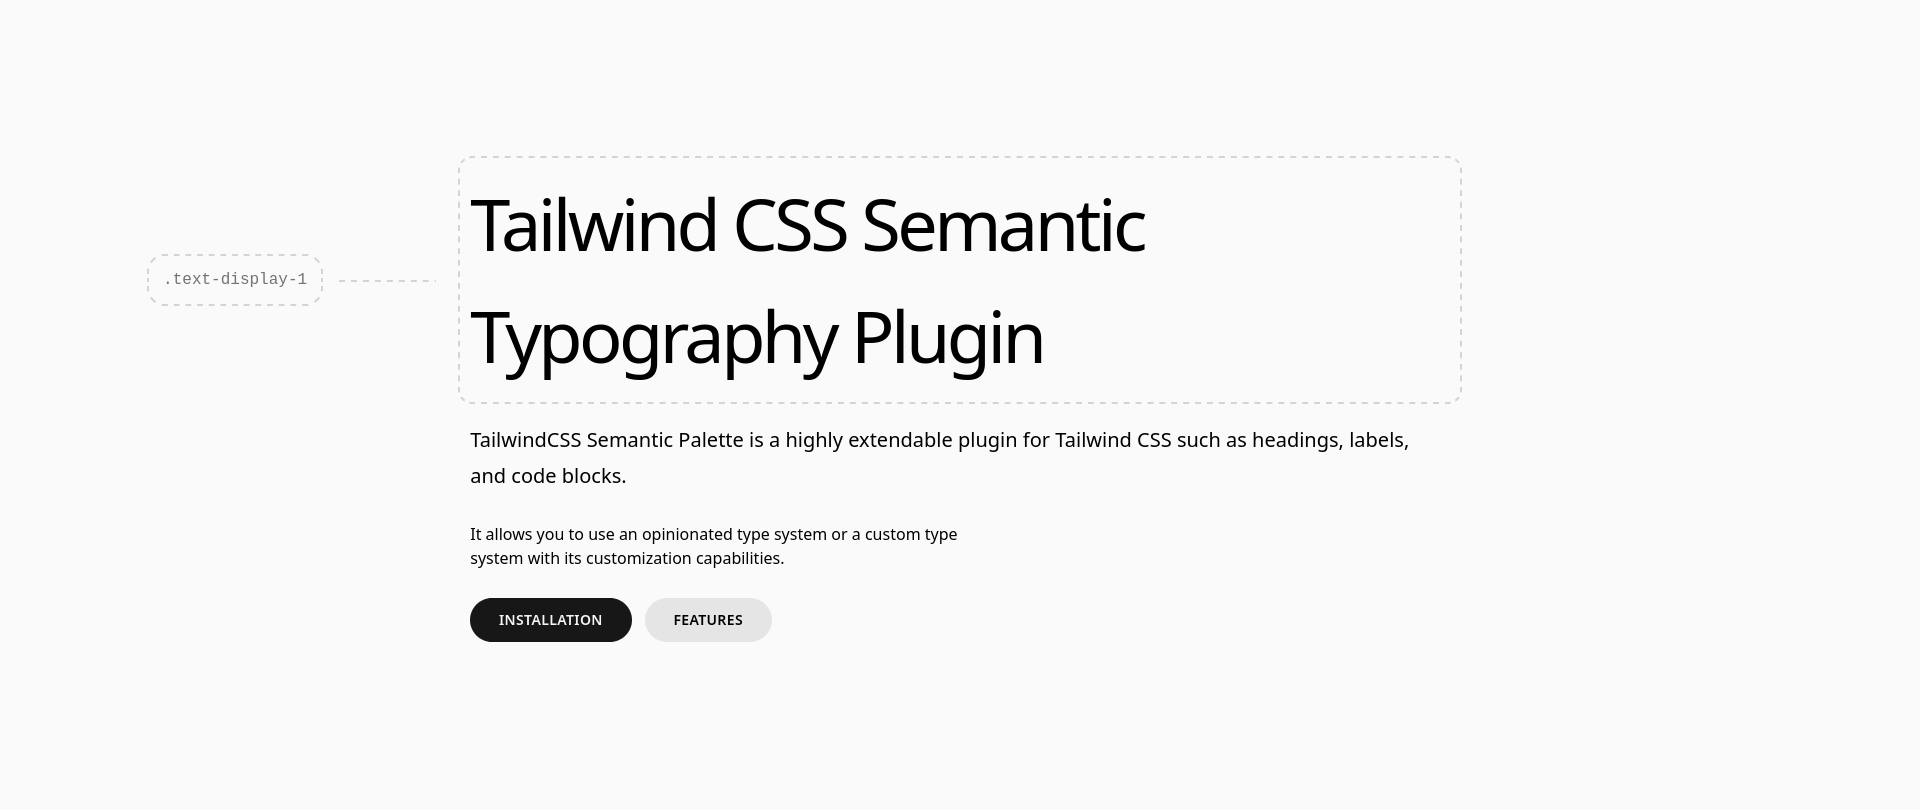
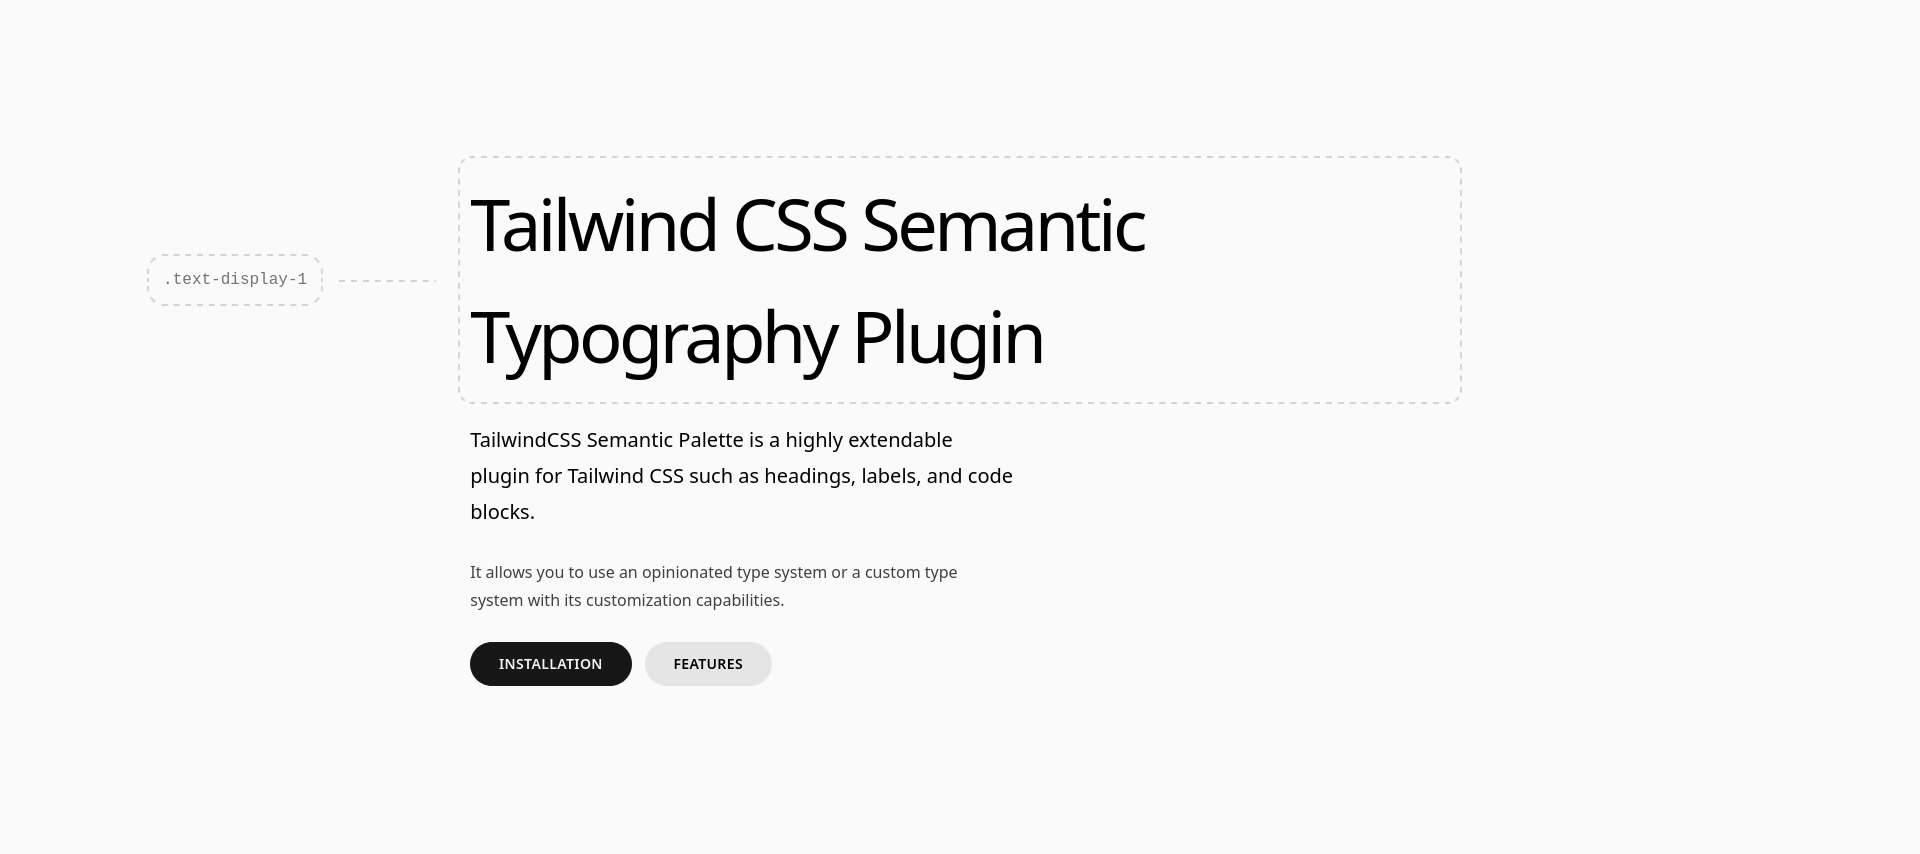
updates documentation of the tailwindcss semantic typography plugin

diff --git a/plugins/tailwindcss-semantic-typography/fixtures/showcase/index.html b/plugins/tailwindcss-semantic-typography/fixtures/showcase/index.html
@@ -25,11 +25,11 @@
             <!-- lead -->
 
             <div class="group flex justify-center items-center mb-lg">
-                <div class="flex justify-center items-center wrapper-lg-sides">
+                <div class="flex justify-center items-center wrapper-md-left">
                     <pre class="text-code text-neutral-500/0 group-hover:text-neutral-500 demo-ring group-hover:demo-ring-active demo-dash-to-right group-hover:demo-dash-to-right-active">.text-lead</pre>
                 </div>
-                <div class="text-lead w-wrapper-lg demo-ring-inner group-hover:demo-ring-inner-active">TailwindCSS Semantic Palette is a highly extendable plugin for Tailwind CSS such as headings, labels, and code blocks.</div>
-                <div class="wrapper-lg-sides"></div>
+                <div class="text-lead w-wrapper-md demo-ring-inner group-hover:demo-ring-inner-active">TailwindCSS Semantic Palette is a highly extendable plugin for Tailwind CSS such as headings, labels, and code blocks.</div>
+                <div class="wrapper-md-right"></div>
             </div>
 
             <!-- body -->
@@ -38,9 +38,11 @@
                 <div class="flex justify-center items-center wrapper-md-left">
                     <pre class="text-code text-neutral-500/0 group-hover:text-neutral-500 demo-ring group-hover:demo-ring-active demo-dash-to-right group-hover:demo-dash-to-right-active">.text-body</pre>
                 </div>
-                <div class="body w-wrapper-md demo-ring-inner group-hover:demo-ring-inner-active">It allows you to use an opinionated type system or a custom type system with its customization capabilities.</div>
+                <div class="text-body w-wrapper-md demo-ring-inner group-hover:demo-ring-inner-active">It allows you to use an opinionated type system or a custom type system with its customization capabilities.</div>
                 <div class="wrapper-md-right"></div>
             </div>
+
+            <!-- button -->
 
             <div class="group flex justify-center items-center">
                 <div class="flex justify-center items-center wrapper-lg-sides">
@@ -54,36 +56,96 @@
                 </div>
                 <div class="wrapper-lg-sides"></div>
             </div>
-
-
         </section>
 
         <section class="section-md">
-            <div class="text-overline">Installation & Setup</div>
-            <h2 class="text-heading mb-heading">
-                Getting started in one line of code
-            </h2>
 
-            <p class="text-lead w-text mb-lead">Did you ever wonder how to install the plugin Tailwind CSS Semantic
-                Typography?</p>
+            <!-- overline and heading -->
 
-            <p class="text-body w-text mb-body">Fear no more because this section will guide you right through all your
-                questions. We will cover installation and setup using easy to copy and paste code snippets.</p>
-
-            <p class="text-body w-text mb-body">The first step to installing Tailwind CSS Semantic Typography is to, you
-                guessed it, install the dependency.
-                This can simply be done by copy and pasting the following command.</p>
-
-            <div class="bg-neutral-800  rounded-lg my-md py-md">
-                <pre class="text-code px-lg text-neutral-200 before:opacity-50 before:content-['$_']">npm install @ilijazm/tailwindcss-semantic-typography</pre>
+            <div class="group flex justify-center items-center mb-heading">
+                <div class="flex justify-center items-center -translate-y-4 wrapper-lg-sides">
+                    <pre class="text-code text-neutral-500/0 group-hover:text-neutral-500 demo-ring group-hover:demo-ring-active demo-dash-to-right group-hover:demo-dash-to-right-active">.text-overline</pre>
+                </div>
+                <div class="w-wrapper-lg demo-ring-inner group-hover:demo-ring-inner-active">
+                    <div class="text-overline">Installation & Setup</div>
+                    <h2 class="text-heading">
+                        Getting started in one line of code
+                    </h2>
+                </div>
+                <div class="flex justify-center items-start translate-y-4 wrapper-lg-sides">
+                    <pre class="text-code text-neutral-500/0 group-hover:text-neutral-500 demo-ring group-hover:demo-ring-active demo-dash-to-left group-hover:demo-dash-to-left-active">.text-heading</pre>
+                </div>
             </div>
 
-            <p class="text-body w-text">Next, we need to add the plugin to the CSS-file. How do we do that? Simple: Just
-                add the following line in the CSS file.</p>
+            <!-- lead -->
 
-            <div class="bg-neutral-800  rounded-lg my-md py-md text-code">
-                <pre class="px-lg text-neutral-200 before:opacity-50 before:content-['1_']">@import "tailwindcss";</pre>
-                <pre class="px-lg bg-green-00/30 text-neutral-200 before:opacity-50 before:content-['2_']">@plugin "@ilijazm/tailwindcss-semantic-typography";</pre>
+            <div class="group flex justify-center items-center mb-lead">
+                <div class="flex justify-center items-center wrapper-md-left">
+                    <pre class="text-code text-neutral-500/0 group-hover:text-neutral-500 demo-ring group-hover:demo-ring-active demo-dash-to-right group-hover:demo-dash-to-right-active">.text-lead</pre>
+                </div>
+                <div class="body w-wrapper-md demo-ring-inner group-hover:demo-ring-inner-active">
+                    <p class="text-lead w-text">Did you ever wonder how to install the plugin Tailwind CSS Semantic Typography?</p>
+                </div>
+                <div class="wrapper-md-right"></div>
+            </div>
+
+            <!-- body -->
+
+            <div class="group flex justify-center items-center mb-body">
+                <div class="flex justify-center items-center wrapper-md-left">
+                    <pre class="text-code text-neutral-500/0 group-hover:text-neutral-500 demo-ring group-hover:demo-ring-active demo-dash-to-right group-hover:demo-dash-to-right-active">.text-body</pre>
+                </div>
+                <div class="body w-wrapper-md demo-ring-inner group-hover:demo-ring-inner-active">
+                    <p class="text-body w-text mb-body">Fear no more because this section will guide you right through all your
+                        questions. We will cover installation and setup using easy to copy and paste code snippets.</p>
+
+                    <p class="text-body w-text">The first step to installing Tailwind CSS Semantic Typography is to, you
+                        guessed it, install the dependency.
+                        This can simply be done by copy and pasting the following command.</p>
+                </div>
+                <div class="wrapper-md-right"></div>
+            </div>
+
+            <!-- code -->
+
+            <div class="group flex justify-center items-center my-md">
+                <div class="flex justify-center items-center wrapper-lg-sides">
+                    <pre class="text-code text-neutral-500/0 group-hover:text-neutral-500 demo-ring group-hover:demo-ring-active demo-dash-to-right group-hover:demo-dash-to-right-active">.text-code</pre>
+                </div>
+                <div class="body w-wrapper-lg demo-ring-inner group-hover:demo-ring-inner-active">
+                    <div class="bg-neutral-800  rounded-lg py-md">
+                        <pre class="text-code px-lg text-neutral-200 before:opacity-50 before:content-['$_']">npm install @ilijazm/tailwindcss-semantic-typography</pre>
+                    </div>
+                </div>
+                <div class="wrapper-lg-sides"></div>
+            </div>
+
+            <!-- body -->
+
+            <div class="group flex justify-center items-center mb-body">
+                <div class="flex justify-center items-center wrapper-md-left">
+                    <pre class="text-code text-neutral-500/0 group-hover:text-neutral-500 demo-ring group-hover:demo-ring-active demo-dash-to-right group-hover:demo-dash-to-right-active">.text-body</pre>
+                </div>
+                <div class="body w-wrapper-md demo-ring-inner group-hover:demo-ring-inner-active">
+                    <p class="text-body w-text">Next, we need to add the plugin to the CSS-file. How do we do that? Simple: Just add the following line in the CSS file.</p>
+                </div>
+                <div class="wrapper-md-right"></div>
+            </div>
+
+            <!-- code -->
+
+            <div class="group flex justify-center items-center my-md">
+                <div class="flex justify-center items-center wrapper-lg-sides">
+                    <pre class="text-code text-neutral-500/0 group-hover:text-neutral-500 demo-ring group-hover:demo-ring-active demo-dash-to-right group-hover:demo-dash-to-right-active">.text-code</pre>
+                </div>
+                <div class="body w-wrapper-lg demo-ring-inner group-hover:demo-ring-inner-active">
+                    <div class="bg-neutral-800  rounded-lg py-md text-code">
+                        <pre class="px-lg text-neutral-200 before:opacity-50 before:content-['1_']">@import "tailwindcss";</pre>
+                        <pre class="px-lg bg-green-00/30 text-neutral-200 before:opacity-50 before:content-['2_']">@plugin "@ilijazm/tailwindcss-semantic-typography";</pre>
+                    </div>
+
+                </div>
+                <div class="wrapper-lg-sides"></div>
             </div>
 
             <h2 class="text-overline mt-heading">Usage & Features</h2>

diff --git a/plugins/tailwindcss-semantic-typography/fixtures/showcase/style.css b/plugins/tailwindcss-semantic-typography/fixtures/showcase/style.css
@@ -61,6 +61,19 @@
     width: 100vw;
 }
 
+@utility demo-dash-to-left {
+    @apply after:absolute after:top-[50%] after:border-t-2 after:border-dashed after:border-neutral-300/0 transition-colors;
+}
+
+@utility demo-dash-to-left-active {
+    @apply after:border-neutral-300;
+}
+
+.demo-dash-to-left:after {
+    right: calc(100% + 2rem);
+    width: 100vw;
+}
+
 @utility wrapper-lg-sides {
     width: calc((100% - var(--spacing-wrapper-lg)) / 2);
     height: 100%;

diff --git a/plugins/tailwindcss-semantic-typography/README.md b/plugins/tailwindcss-semantic-typography/README.md
@@ -82,11 +82,13 @@ Used for structuring page content into readable sections.
 | `text-subheading` | Secondary heading under a section                                                    |
 | `text-overline`   | Small contextual label (kicker / eyebrow / meta label) that comes before the heading |
 
-**Guidelines**
+##### Guidelines
 
 * Used in custom layouts
 * Recommended for manually structured UI sections
 * Do not use for Markdown-rendered content (see Rich Text section below)
+
+##### Examples
 
 #### 3. Content Typography (Readable Text)
 
@@ -99,12 +101,17 @@ Used inside sections for body content and emphasis.
 | `text-quote` | Quoted text or testimonial blocks   |
 | `text-code`  | Inline code or code blocks          |
 
-**Guidelines**
+##### Guidelines
 
 * `text-lead` should appear at most once per section
 * `text-body` is the default fallback text style
 * `text-overline` is used for metadata or context labels above headings
 * `text-code` ensures consistent monospace formatting
+
+##### Examples
+
+![img_2.png](img_2.png)
+_This example demonstrates where a lead is supposed to be placed._
 
 #### 4. Rich Text / Markdown Mapping
 
